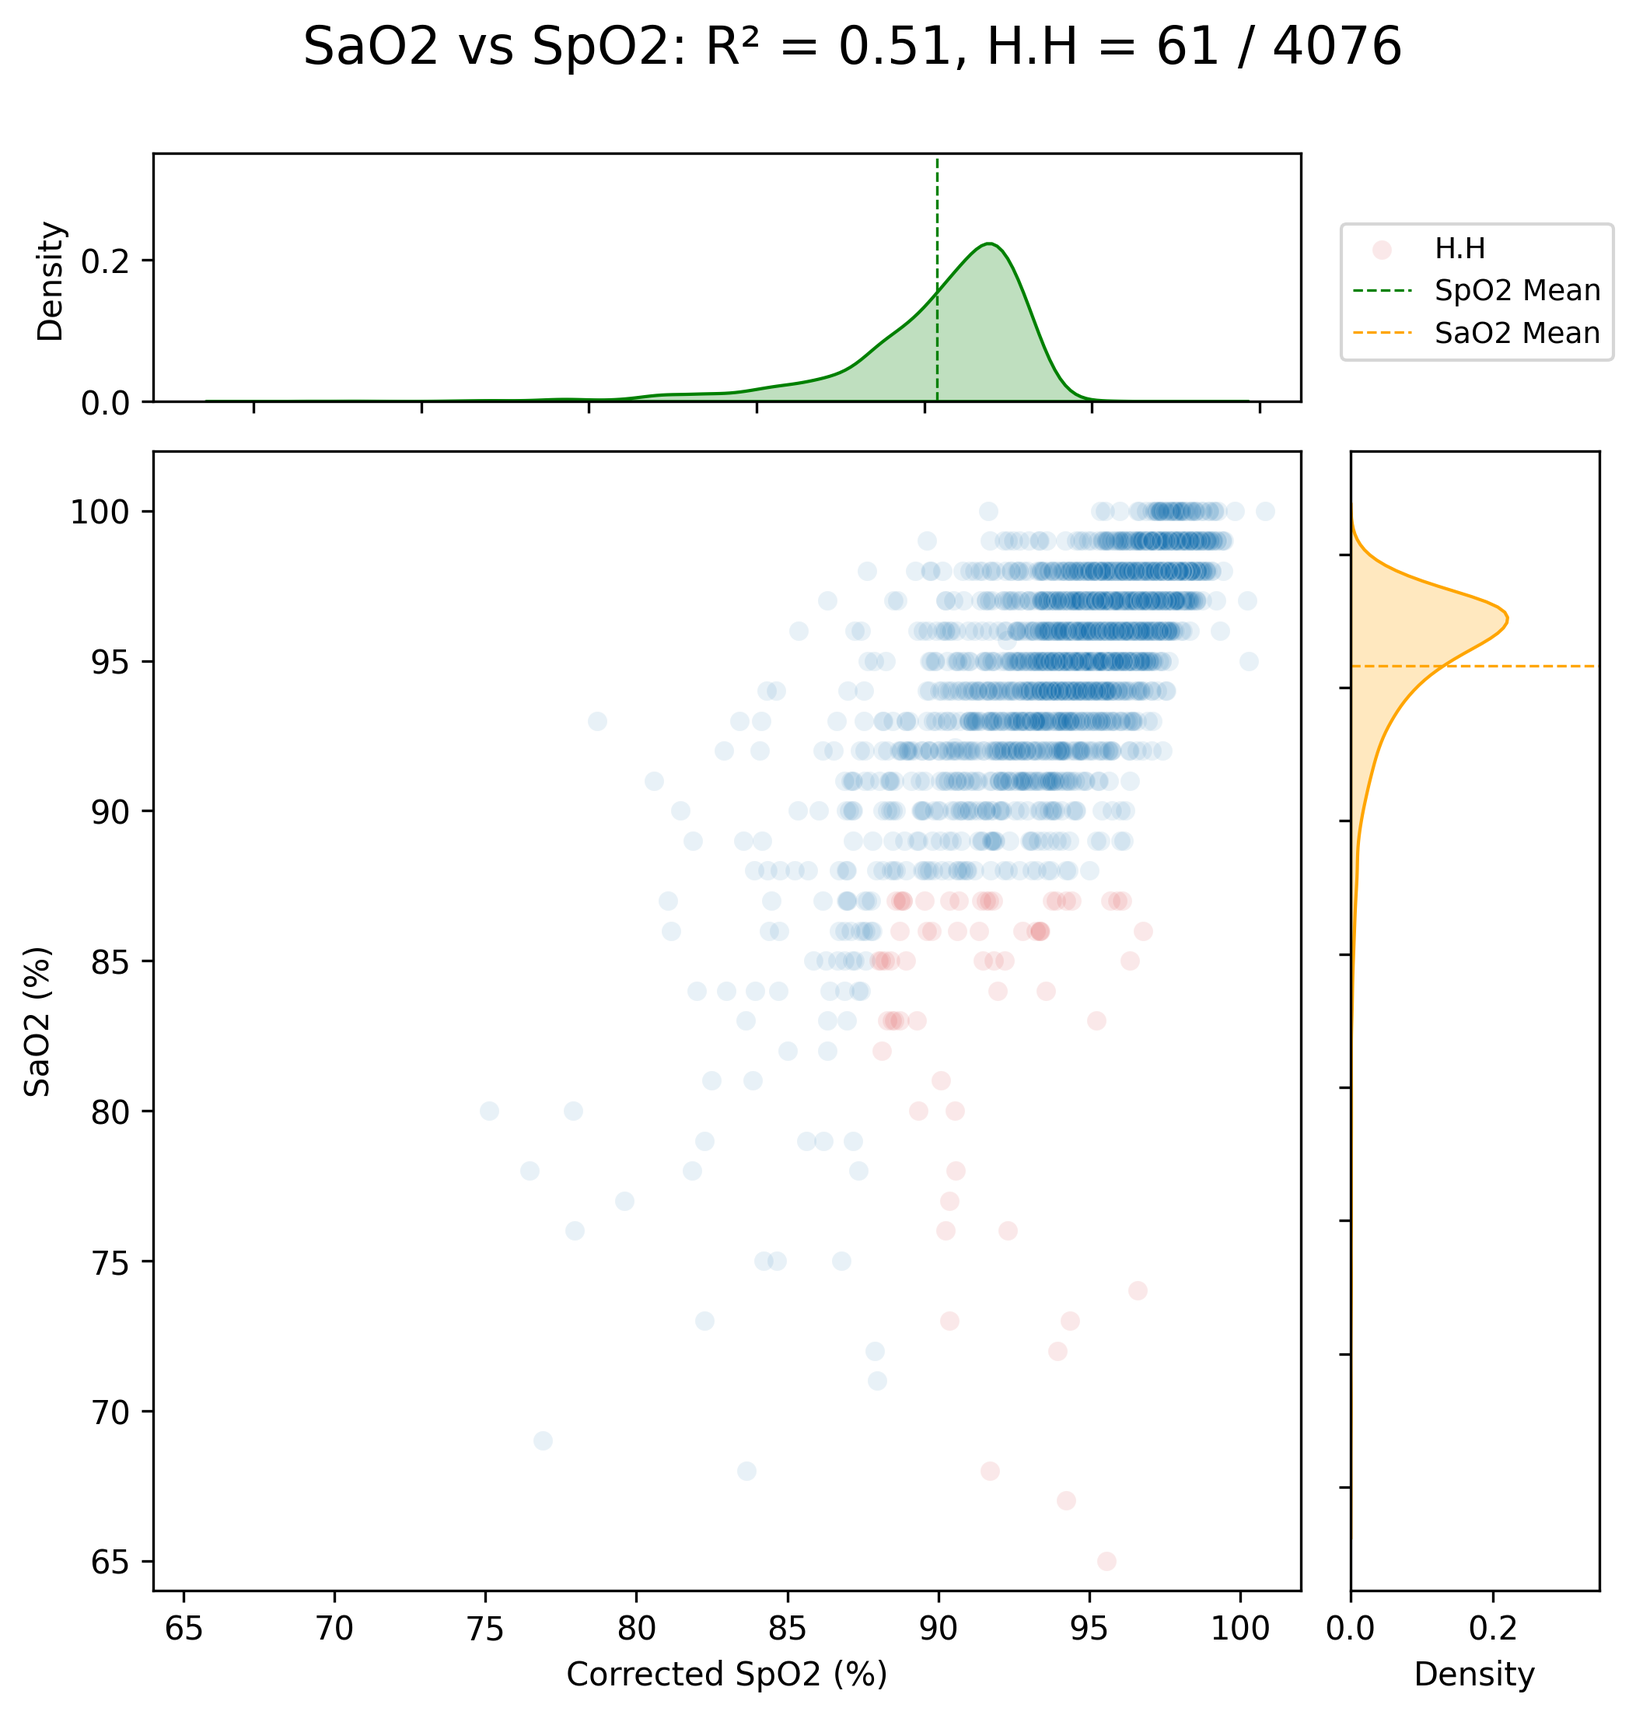
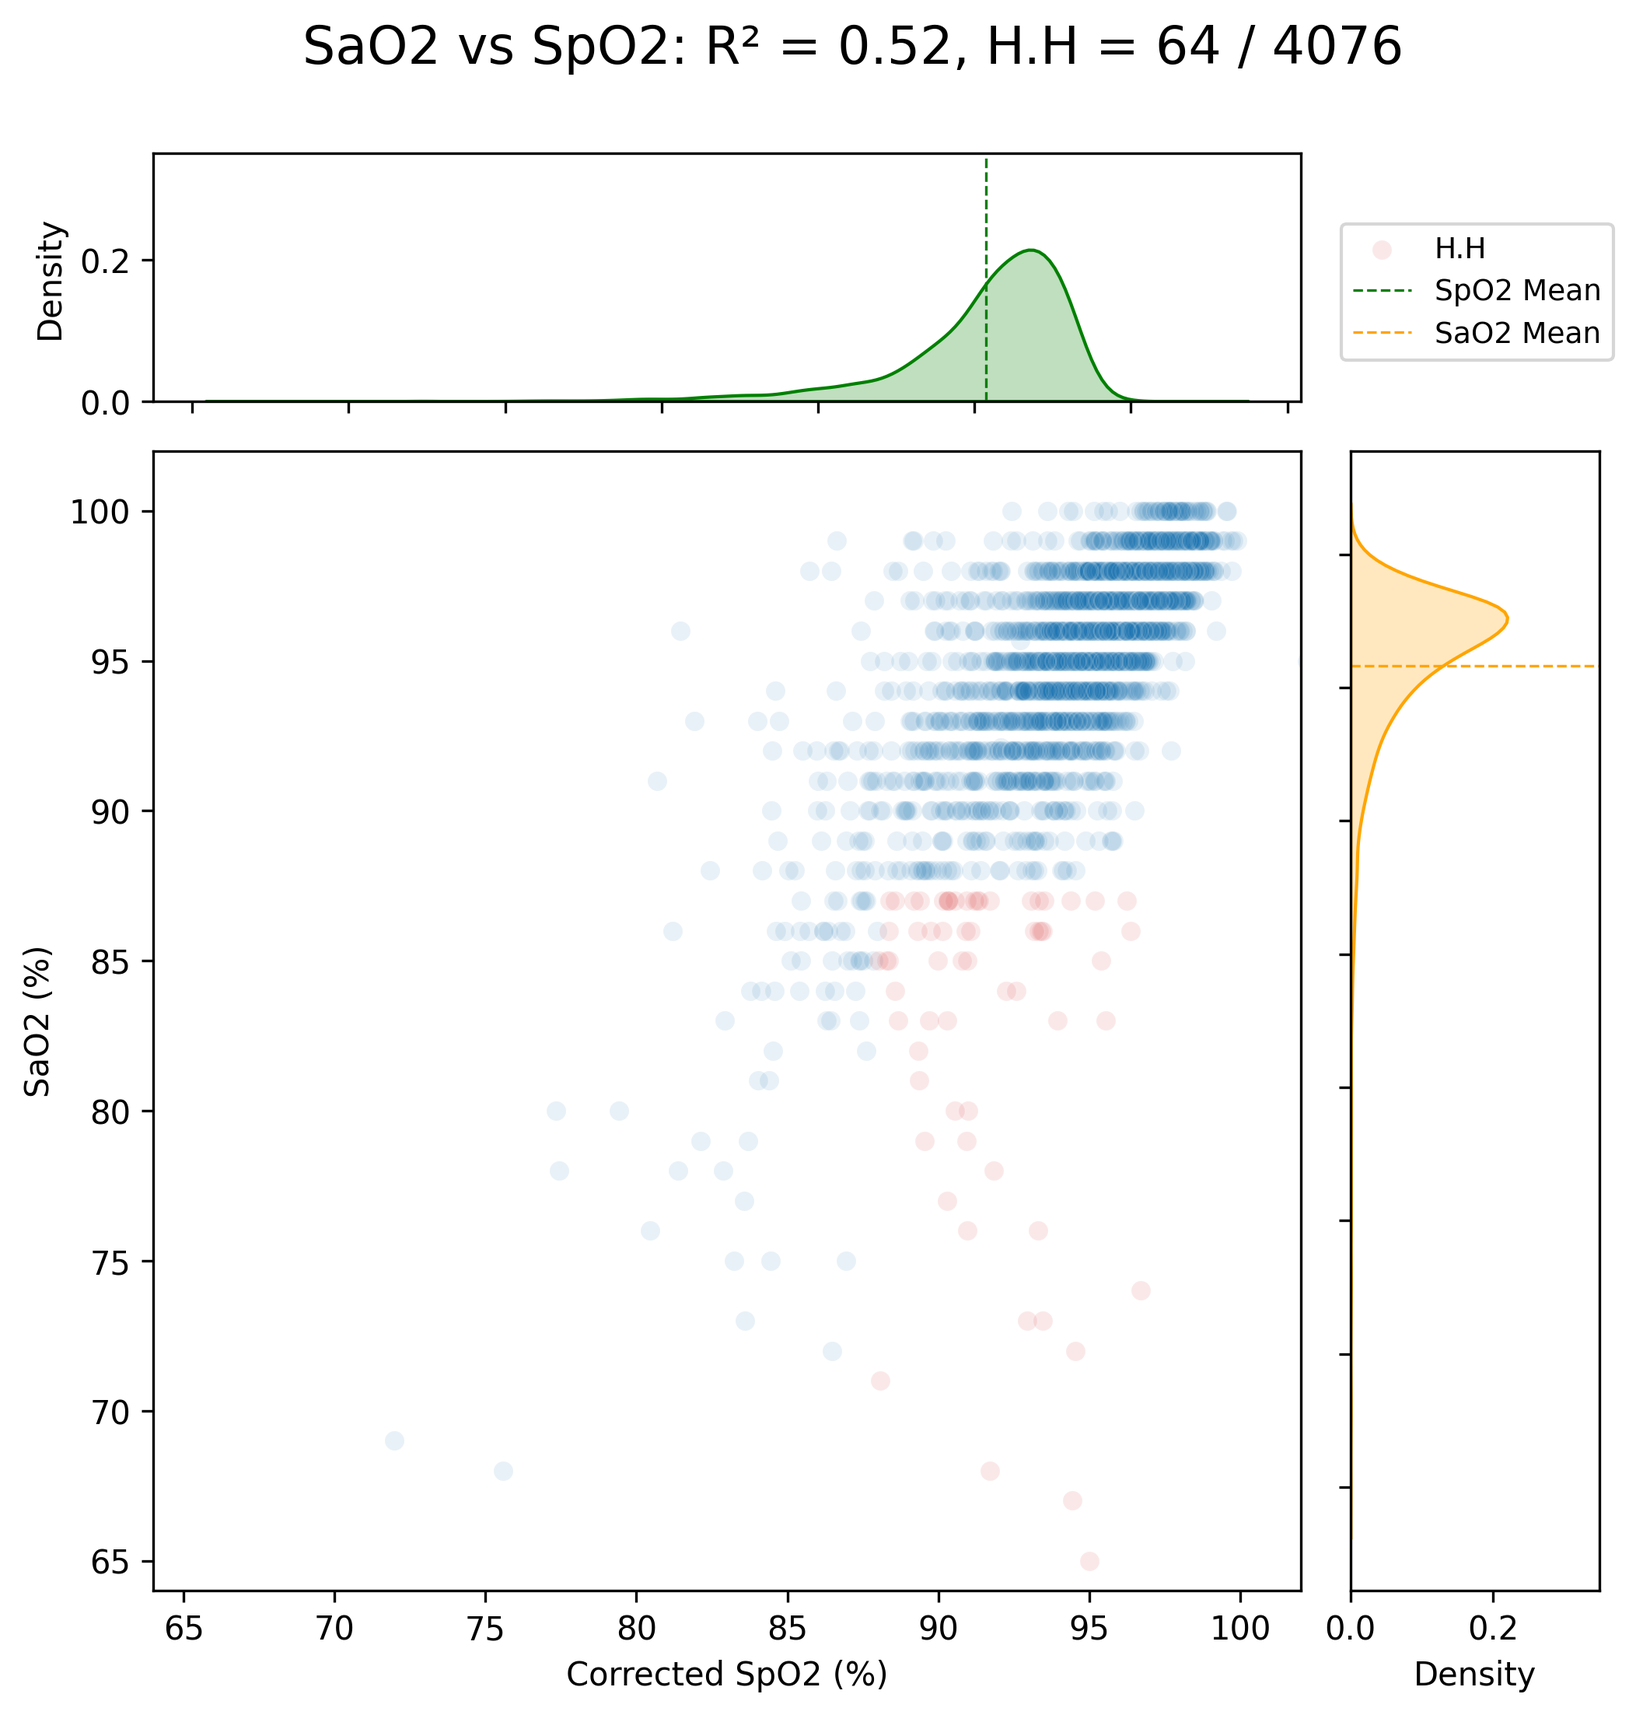
Add better missingness handling; normal lab and vs values

diff --git a/EDA/table1_pairs.tex b/EDA/table1_pairs.tex
@@ -13,11 +13,11 @@ ventilation\_status, n (\%) & None &               0 &                 58 (10.1)
 invasive\_vent, n (\%) & Received &               0 &                471 (82.2) &               1024 (75.0) &               465 (72.8) &               2947 (78.4) &             10404 (75.9) \\
 rrt, n (\%) & Received &               0 &                209 (36.5) &                339 (24.8) &               148 (23.2) &               1059 (28.2) &              2610 (19.0) \\
 vasopressors, n (\%) & Received &               0 &                336 (58.6) &                623 (45.6) &               312 (48.8) &               2035 (54.2) &              6763 (49.3) \\
-heart\_rhythm, n (\%) & Atrial Dysrhythmias &            3870 &                121 (27.1) &                127 (12.5) &                 47 (9.5) &                431 (14.5) &              1886 (16.8) \\
-                        & Bradycardia with Pacer &                 &                  39 (8.7) &                  94 (9.2) &                62 (12.5) &                 287 (9.7) &              1529 (13.6) \\
-                        & Bundle Branch Blocks &                 &                  19 (4.3) &                  52 (5.1) &                 23 (4.6) &                 156 (5.3) &                709 (6.3) \\
-                        & Normal (or near normal) Rhythm &                 &                268 (60.0) &                745 (73.2) &               363 (73.3) &               2095 (70.6) &              7112 (63.3) \\
-                        & Ventricular Dysrhythmias (severe) &                 &                           &                           &                          &                           &                  6 (0.1) \\
+heart\_rhythm, n (\%) & Atrial Dysrhythmias &               0 &                121 (21.1) &                 127 (9.3) &                 47 (7.4) &                431 (11.5) &              1886 (13.8) \\
+                        & Bradycardia with Pacer &                 &                  39 (6.8) &                  94 (6.9) &                 62 (9.7) &                 287 (7.6) &              1529 (11.2) \\
+                        & Bundle Branch Blocks &                 &                  19 (3.3) &                  52 (3.8) &                 23 (3.6) &                 156 (4.2) &                709 (5.2) \\
+                        & Normal (or near normal) Rhythm &                 &                394 (68.8) &               1092 (80.0) &               507 (79.3) &               2883 (76.7) &              9577 (69.9) \\
+                        & Ventricular Dysrhythmias (severe) &                 &                           &                           &                          &                           &                  6 (0.0) \\
 SaO2, median [Q1,Q3] &                                   &               0 &          97.0 [95.0,98.0] &          97.0 [94.0,98.0] &         97.0 [95.0,98.0] &          97.0 [95.0,98.0] &         97.0 [95.0,98.0] \\
 SpO2, median [Q1,Q3] &                                   &               0 &         98.0 [96.0,100.0] &         98.0 [96.0,100.0] &        98.0 [96.0,100.0] &         98.0 [95.0,100.0] &        98.0 [95.0,100.0] \\
 sao2-spo2, median [Q1,Q3] &                                   &               0 &           -2.0 [-3.0,0.0] &           -2.0 [-3.0,0.0] &          -1.0 [-2.0,0.0] &           -1.0 [-2.0,0.0] &          -1.0 [-2.0,0.0] \\

diff --git a/results/xgbr_train.tex b/results/xgbr_train.tex
@@ -4,16 +4,16 @@ Race &       Overall &         White &    Hispanic &       Asian &        Other 
 \midrule
 N               &  15965.000000 &  10944.000000 &  508.000000 &  463.000000 &  2941.000000 &  1109.000000 \\
 Baseline R²     &     -0.076132 &     -0.047852 &   -0.298356 &   -0.352311 &    -0.157243 &     0.027759 \\
-Baseline Adj R² &     -0.082779 &     -0.057321 &   -0.609454 &   -0.716395 &    -0.197148 &    -0.066577 \\
+Baseline Adj R² &     -0.083189 &     -0.057906 &   -0.633416 &   -0.745162 &    -0.199680 &    -0.072951 \\
 Baseline RMSE   &      3.550484 &      3.456735 &    3.693738 &    3.638942 &     3.828302 &     3.593237 \\
 Baseline HH     &    261.000000 &    172.000000 &    7.000000 &    7.000000 &    45.000000 &    30.000000 \\
-Model R²        &      0.677638 &      0.672061 &    0.726245 &    0.686681 &     0.682154 &     0.684936 \\
-Model Adj R²    &      0.675647 &      0.669098 &    0.660651 &    0.602327 &     0.671193 &     0.654365 \\
-Model RMSE      &      1.943240 &      1.933804 &    1.696094 &    1.751579 &     2.006331 &     2.045495 \\
-Model HH        &    161.000000 &    111.000000 &    3.000000 &    4.000000 &    24.000000 &    19.000000 \\
-Delta R²        &      0.753771 &      0.719913 &    1.024601 &    1.038993 &     0.839396 &     0.657177 \\
-Delta Adj R²    &      0.758426 &      0.726419 &    1.270105 &    1.318722 &     0.868341 &     0.720943 \\
-Delta RMSE      &     -1.607244 &     -1.522931 &   -1.997644 &   -1.887363 &    -1.821971 &    -1.547742 \\
-Delta HH        &   -100.000000 &    -61.000000 &   -4.000000 &   -3.000000 &   -21.000000 &   -11.000000 \\
+Model R²        &      0.682991 &      0.676146 &    0.739515 &    0.692637 &     0.692611 &     0.685202 \\
+Model Adj R²    &      0.680912 &      0.673038 &    0.672293 &    0.603347 &     0.681338 &     0.652594 \\
+Model RMSE      &      1.927040 &      1.921724 &    1.654476 &    1.734854 &     1.973051 &     2.044630 \\
+Model HH        &    161.000000 &    113.000000 &    4.000000 &    4.000000 &    25.000000 &    15.000000 \\
+Delta R²        &      0.759123 &      0.723998 &    1.037871 &    1.044948 &     0.849854 &     0.657443 \\
+Delta Adj R²    &      0.764101 &      0.730944 &    1.305709 &    1.348508 &     0.881019 &     0.725545 \\
+Delta RMSE      &     -1.623443 &     -1.535011 &   -2.039262 &   -1.904088 &    -1.855251 &    -1.548607 \\
+Delta HH        &   -100.000000 &    -59.000000 &   -3.000000 &   -3.000000 &   -20.000000 &   -15.000000 \\
 \bottomrule
 \end{tabular}

diff --git a/results/xgbr.tex b/results/xgbr.tex
@@ -4,16 +4,16 @@ Race &      Overall &        White &    Hispanic &       Asian &       Other &  
 \midrule
 N               &  4076.000000 &  2763.000000 &  131.000000 &  110.000000 &  816.000000 &  256.000000 \\
 Baseline R²     &    -0.010525 &    -0.032198 &   -0.057075 &   -0.668796 &   -0.001651 &    0.313326 \\
-Baseline Adj R² &    -0.035426 &    -0.070169 &   -3.294366 &  -15.536249 &   -0.138557 &   -0.115298 \\
+Baseline Adj R² &    -0.036990 &    -0.072585 &   -4.285374 &  -35.379747 &   -0.148165 &   -0.159615 \\
 Baseline RMSE   &     3.436402 &     3.361230 &    3.231524 &    3.845895 &    3.790450 &    2.930177 \\
 Baseline HH     &    74.000000 &    47.000000 &    2.000000 &    1.000000 &   23.000000 &    1.000000 \\
-Model R²        &     0.513877 &     0.455014 &    0.493835 &    0.428904 &    0.619876 &    0.683793 \\
-Model Adj R²    &     0.501899 &     0.434966 &   -1.056294 &   -4.659042 &    0.567920 &    0.486416 \\
-Model RMSE      &     2.383435 &     2.442358 &    2.236148 &    2.249834 &    2.335045 &    1.988402 \\
-Model HH        &    61.000000 &    41.000000 &    2.000000 &    0.000000 &   16.000000 &    2.000000 \\
-Delta R²        &     0.524402 &     0.487212 &    0.550910 &    1.097700 &    0.621527 &    0.370467 \\
-Delta Adj R²    &     0.537324 &     0.505135 &    2.238072 &   10.877207 &    0.706478 &    0.601714 \\
-Delta RMSE      &    -1.052966 &    -0.918872 &   -0.995376 &   -1.596061 &   -1.455405 &   -0.941775 \\
-Delta HH        &   -13.000000 &    -6.000000 &    0.000000 &   -1.000000 &   -7.000000 &    1.000000 \\
+Model R²        &     0.520764 &     0.471227 &    0.451104 &    0.383217 &    0.627031 &    0.638119 \\
+Model Adj R²    &     0.508213 &     0.450538 &   -1.744480 &  -12.445863 &    0.572476 &    0.388876 \\
+Model RMSE      &     2.366493 &     2.405755 &    2.328625 &    2.338094 &    2.312965 &    2.127167 \\
+Model HH        &    64.000000 &    42.000000 &    3.000000 &    1.000000 &   17.000000 &    1.000000 \\
+Delta R²        &     0.531289 &     0.503425 &    0.508179 &    1.052013 &    0.628682 &    0.324793 \\
+Delta Adj R²    &     0.545203 &     0.523123 &    2.540894 &   22.933884 &    0.720641 &    0.548491 \\
+Delta RMSE      &    -1.069909 &    -0.955475 &   -0.902899 &   -1.507801 &   -1.477485 &   -0.803010 \\
+Delta HH        &   -10.000000 &    -5.000000 &    1.000000 &    0.000000 &   -6.000000 &    0.000000 \\
 \bottomrule
 \end{tabular}

diff --git a/src/3_data_clean.py b/src/3_data_clean.py
@@ -1,4 +1,5 @@
 import pandas as pd
+import numpy as np
 
 df_raw = pd.read_csv('data/MIMIC_IV.csv')
 
@@ -74,8 +75,8 @@ category_map = {'1st AV (First degree AV Block)': 0,
                 'VT (Ventricular Tachycardia)': 4,
                 'WAP (Wandering atrial pacemaker)': 1}
 
-category_column = df['heart_rhythm']
-df['heart_rhythm'] = category_column.map(category_map)
+df['heart_rhythm'] = df['heart_rhythm'].map(category_map)
+df['heart_rhythm'] = df['heart_rhythm'].fillna(0)
 
 df['vasopressors'] = df.norepinephrine_equivalent_dose.apply(lambda x: 1 if x > 0 else 0)
 
@@ -84,6 +85,22 @@ df['norepinephrine_equivalent_dose'] = df['norepinephrine_equivalent_dose'].fill
 # No ventilation information -> assume best case scenario
 df['ventilation_status'] = df['ventilation_status'].fillna(0)
 
+# one-hot encoding of FiO2 -> this way we avoid having to impute FiO2 for vent_status = 1
+df['FiO2_0'] = df.apply(lambda row: 21          if row['ventilation_status'] == 0 else 0, axis=1)
+df['FiO2_2'] = df.apply(lambda row: row['FiO2'] if row['ventilation_status'] == 2 else 0, axis=1)
+df['FiO2_3'] = df.apply(lambda row: row['FiO2'] if row['ventilation_status'] == 3 else 0, axis=1)
+df['FiO2_4'] = df.apply(lambda row: row['FiO2'] if row['ventilation_status'] == 4 else 0, axis=1)
 
+# and same for these deltas
+df['delta_FiO2_0'] = df.apply(lambda row: row['delta_FiO2'] if row['ventilation_status'] == 0 else 0, axis=1)
+df['delta_FiO2_2'] = df.apply(lambda row: row['delta_FiO2'] if row['ventilation_status'] == 2 else 0, axis=1)
+df['delta_FiO2_3'] = df.apply(lambda row: row['delta_FiO2'] if row['ventilation_status'] == 3 else 0, axis=1)
+df['delta_FiO2_4'] = df.apply(lambda row: row['delta_FiO2'] if row['ventilation_status'] == 4 else 0, axis=1)
+
+# df['sofa_resp_proxy'] = df.apply(lambda row: 0 if row['ventilation_status'] == 0 else(
+#                                              1.5 if (row['ventilation_status'] == 1) else(
+#                                              3 if ((row['ventilation_status'] >= 3) & (row['FiO2'] <= 50)) | (row['ventilation_status'] == 2) else(
+#                                              4 if (row['ventilation_status'] >= 3)  & (row['FiO2'] > 50) else(
+#                                              0)))), axis=1)
 
 df.to_csv("data/MIMIC_IV_clean.csv")

diff --git a/src/5_data_split.py b/src/5_data_split.py
@@ -12,7 +12,7 @@ rxs = ['ventilation_status', 'invasive_vent', 'rrt',
        'delta_vent_start', 'delta_rrt', 'delta_vp_start',
        'vasopressors', 'norepinephrine_equivalent_dose']
 
-fts = ['FiO2',       
+fts = ['FiO2_0', 'FiO2_2', 'FiO2_3', 'FiO2_4',      
        'sofa_coag', 'sofa_liver', 'sofa_cv', 'sofa_cns', 'sofa_renal', 'sofa_resp',
        'hemoglobin', 'hematocrit', 'mch', 'mchc', 'mcv', 'platelet',
        'rbc', 'rdw', 'wbc', 'inr', 'pt', 'ptt', 'alt', 'alp', 'ast',
@@ -22,7 +22,7 @@ fts = ['FiO2',
        'heart_rate', 'mbp', 'resp_rate', 'temperature',
        'glucose', 'heart_rhythm']
 
-deltas = ['delta_FiO2',
+deltas = ['delta_FiO2_0', 'delta_FiO2_2', 'delta_FiO2_3', 'delta_FiO2_4',
           'delta_sofa_coag', 'delta_sofa_liver', 'delta_sofa_cv',
           'delta_sofa_cns', 'delta_sofa_renal', 'delta_sofa_resp',
           'delta_hemoglobin', 'delta_hematocrit', 'delta_mch', 'delta_mchc',
@@ -33,6 +33,7 @@ deltas = ['delta_FiO2',
           'delta_chloride', 'delta_creatinine', 'delta_glucose_lab', 'delta_sodium',
           'delta_potassium', 'delta_ph', 'delta_lactate', 'delta_heart_rate', 'delta_mbp',
           'delta_resp_rate', 'delta_temperature', 'delta_glucose', 'delta_heart_rhythm']
+  
 
 # get the inverse for the deltas -> the higher the delta the less accurate the feature is
 for d in deltas:
@@ -57,7 +58,6 @@ data['sofa_resp'] = data['sofa_resp'].fillna(0)
 
 # No FiO2 information -> assume room air, but if supplemental o2, another value
 data['FiO2'] = data['FiO2'].fillna(21) # Room Air O2 %
-
 
 # define X and y
 X = data[bas + rxs + fts + deltas]

diff --git a/src/8_ft_imporance.py b/src/8_ft_imporance.py
@@ -34,13 +34,13 @@ explainer = shap.Explainer(model)
 shap_values = explainer(X_test)
 
 # plot the SHAP values for each feature
-fig, ax = plt.subplots(figsize=(10, 8))
-shap.plots.beeswarm(shap_values, max_display=20, show=False)
+fig, ax = plt.subplots(figsize=(6, 8))
+shap.plots.beeswarm(shap_values, max_display=10, show=False)
 plt.tight_layout()
 plt.savefig('results/xgb_shap_plot.png', dpi=300)
 
 # plot the most important features
-fig, ax = plt.subplots(figsize=(10, 8))
-shap.plots.bar(shap_values, max_display=20, show=False)
+fig, ax = plt.subplots(figsize=(6, 8))
+shap.plots.bar(shap_values, max_display=10, show=False)
 plt.tight_layout()
 plt.savefig('results/xgb_ft_plot.png', dpi=300)

diff --git a/README.md b/README.md
@@ -1,2 +1,40 @@
 # SaO2-SpO2 Correction Models
 
+
+## Normal Ranges for Laboratory Tests and Vital Sign Measurements in Healthy Adults in the US
+| Original Variable Name | Formatted Name           | Units          | Normal Range           | Midpoint Value |
+|------------------------|--------------------------|------------------|--------------------------|----------------|
+| hemoglobin | Hemoglobin (Men) | g/dL | 13.5-17.5 | 15.5 |
+| hemoglobin | Hemoglobin (Women) | g/dL | 12.0-15.5 | 13.75 |
+| hematocrit | Hematocrit (Men) | % | 38.8-50.0 | 44.4 |
+| hematocrit | Hematocrit (Women) | % | 34.9-44.5 | 39.7 |
+| mch                    | Mean Corpuscular Hemoglobin | pg              | 26.6 - 33.0              | 29.8           |
+| mchc                   | Mean Corpuscular Hemoglobin Conc. | g/dL | 31.5 - 35.7              | 33.6           |
+| mcv                    | Mean Corpuscular Volume | fL                | 80.0 - 100.0            | 90.0           |
+| platelet               | Platelet Count           | x10^3 /uL   | 150 - 450                  | 300.0          |
+| rbc                    | Red Blood Cell Count     | x10^6/uL    | 4.5 - 5.5                  | 5.0            |
+| rdw                    | Red Cell Distribution Width | %             | 11.5 - 14.5             | 13.0           |
+| wbc                    | White Blood Cell Count | x10^3/uL      | 4.5 - 11.0                | 7.25           |
+| inr                    | International Normalized Ratio | -          | 0.8 - 1.2                | 1.0            |
+| pt                     | Prothrombin Time         | sec             | 9.5 - 12.0                 | 10.75         |
+| ptt                    | Partial Thromboplastin Time | sec           | 22 - 35                     | 28.5           |
+| alt                    | Alanine Aminotransferase | U/L             | 7 - 56                      | 31.5           |
+| alp                    | Alkaline Phosphatase     | U/L             | 44 - 147                  | 95.5           |
+| ast                    | Aspartate Aminotransferase | U/L          | 10 - 40                     | 25.0           |
+| bilirubin_total        | Total Bilirubin          | mg/dL          | 0.1 - 1.2                  | 0.65           |
+| albumin                | Albumin                   | g/dL            | 3.4 - 5.4                  | 4.4            |
+| aniongap               | Anion Gap                | mEq/L        | 5 - 15                       | 10.0           |
+| bicarbonate            | Bicarbonate              | mEq/L        | 22 - 28                     | 25.0           |
+| bun                    | Blood Urea Nitrogen      | mg/dL         | 7 - 20                      | 13.5           |
+| calcium                | Calcium                   | mg/dL          | 8.5 - 10.5                | 9.5            |
+| chloride               | Chloride                  | mEq/L        | 96 - 106                   | 101.0         |
+| creatinine             | Creatinine                | mg/dL         | 0.6 - 1.2                  | 0.9           
+| glucose_lab            | Glucose (lab)         | mg/dL       | 70 - 99                | 84.5             |
+| sodium                 | Sodium                | mEq/L       | 135 - 145              | 140              |
+| potassium              | Potassium             | mEq/L       | 3.5 - 5.0              | 4.25             |
+| ph                     | pH                    | -            | 7.35 - 7.45            | 7.4              |
+| lactate                | Lactate               | mmol/L      | 0.5 - 1.6              | 1.05             |
+| heart_rate             | Heart Rate            | bpm         | 60 - 100               | 80               |
+| mbp                    | Mean Blood Pressure   | mmHg        | 70 - 105               | 87.5             |
+| resp_rate              | Respiratory Rate      | breaths/min | 12 - 20                | 16               |
+| temperature            | Temperature           | ºC          | 36.1 - 37.2            | 36.65            |
